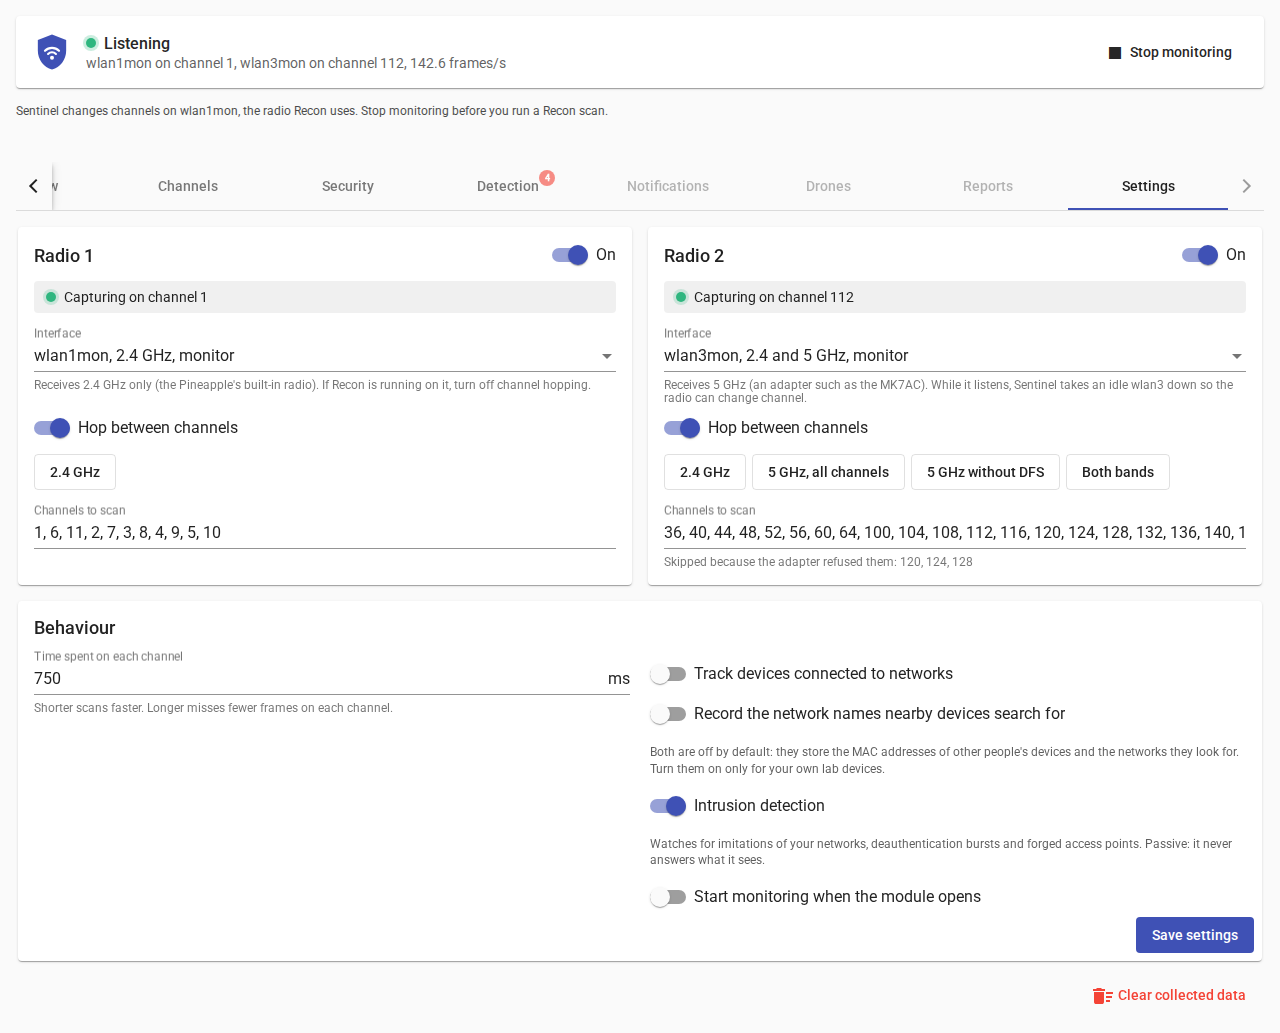
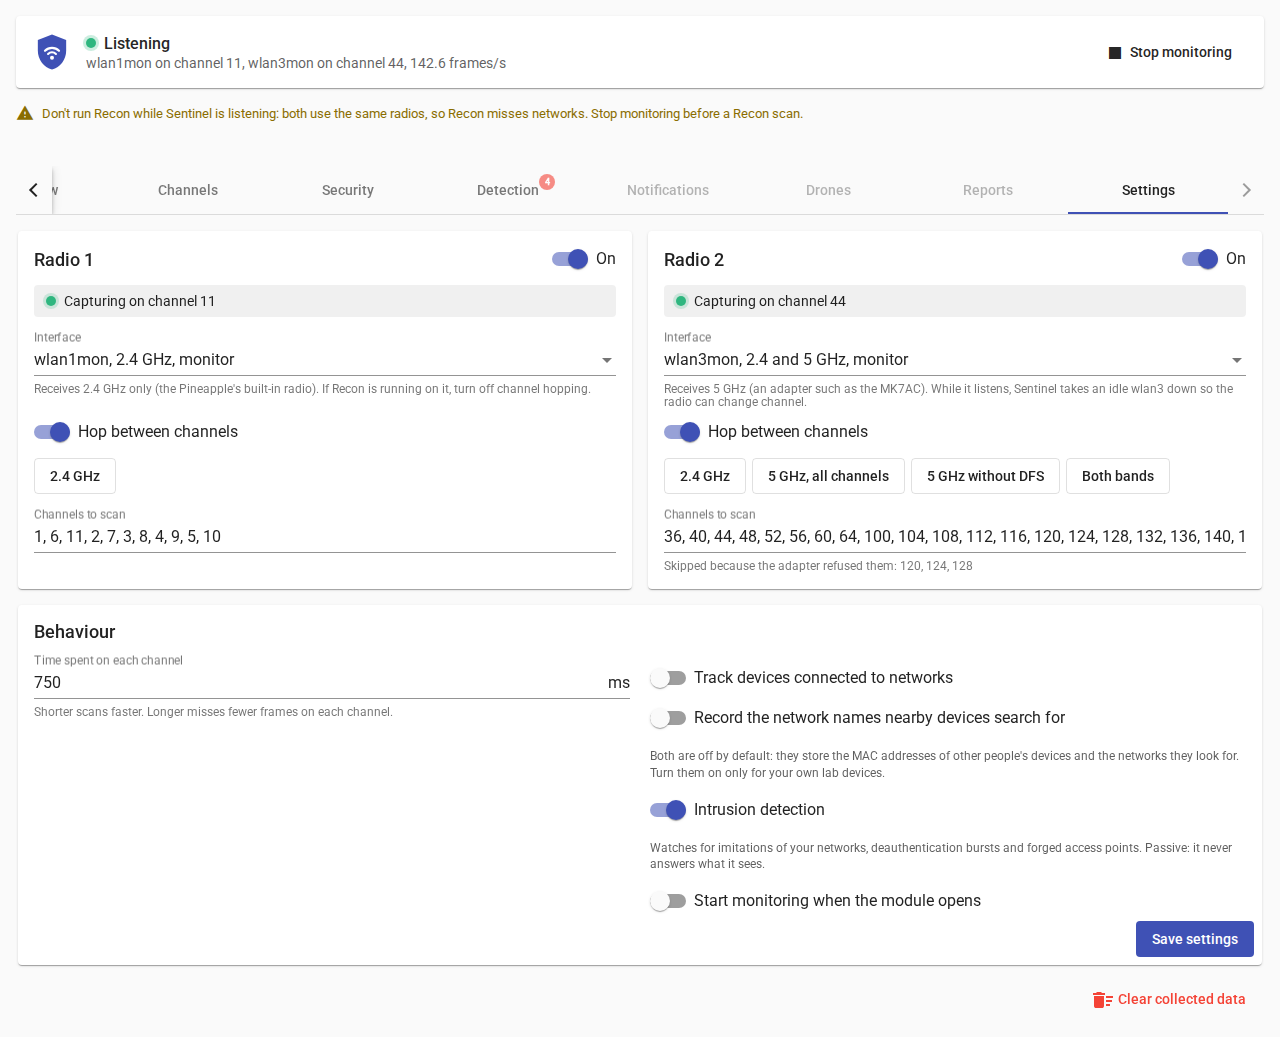
Sentinel 0.8.1
A Recon warning on the main page, and the 0.8 test report.

Claude-Session: https://claude.ai/code/session_01Dyty2cSvxpgAPnk7cKjyN4

diff --git a/projects/Sentinel/src/lib/components/Sentinel.component.ts b/projects/Sentinel/src/lib/components/Sentinel.component.ts
@@ -147,9 +147,12 @@ export class SentinelComponent implements OnInit, AfterViewInit, OnDestroy {
         return this.state === 'on' && this.radios.some((r) => !!r.error);
     }
 
-    /** Sentinel hops channels on the radio the Pineapple's Recon also uses (audit 3.2). */
+    /**
+     * While listening, Sentinel holds the radios Recon needs (wlan1mon, and the 5 GHz adapter it
+     * takes out of managed mode): a Recon scan then misses networks (audit 3.2, tested in 0.8.0).
+     */
     get sharesRecon(): boolean {
-        return this.state === 'on' && this.radios.some((r) => r.iface === 'wlan1mon' && r.hopping);
+        return this.state === 'on';
     }
 
     get stateLabel(): string {

diff --git a/projects/Sentinel/src/lib/components/Sentinel.component.html b/projects/Sentinel/src/lib/components/Sentinel.component.html
@@ -46,8 +46,10 @@
         </div>
     </mat-card>
 
-    <p class="clock-note" *ngIf="sharesRecon">
-        Sentinel changes channels on wlan1mon, the radio Recon uses. Stop monitoring before you run a Recon scan.
+    <p class="recon-note" *ngIf="sharesRecon">
+        <mat-icon>warning</mat-icon>
+        <span>Don't run Recon while Sentinel is listening: both use the same radios, so Recon misses networks.
+        Stop monitoring before a Recon scan.</span>
     </p>
     <p class="clock-note" *ngIf="clockDrift">
         The Pineapple's clock is {{ clockDrift }} this computer's (no Internet to set it).

diff --git a/projects/Sentinel/src/lib/components/Sentinel.component.css b/projects/Sentinel/src/lib/components/Sentinel.component.css
@@ -154,6 +154,22 @@
     padding: 16px 2px 4px;
 }
 
+.recon-note {
+    margin: 0 0 12px;
+    display: flex;
+    align-items: center;
+    gap: 8px;
+    font-size: 13px;
+    color: var(--sn-medium-ink);
+}
+
+.recon-note mat-icon {
+    flex: none;
+    font-size: 18px;
+    width: 18px;
+    height: 18px;
+}
+
 .clock-note {
     margin: 0 0 12px;
     font-size: 12px;

diff --git a/docs/test-report-0.8.md b/docs/test-report-0.8.md
@@ -1,0 +1,22 @@
+# Sentinel 0.8.0: real-device test report
+
+Device: WiFi Pineapple Mark VII + MK7AC, firmware 2.1.3. The Pineapple has no Internet access, PineAP is off,
+and listening is passive only. The Pineapple's clock now comes from the computer it is plugged into (NTP over USB).
+
+## Install and listening
+- Upgrade from 0.7.5 with `sh install-from-pc.sh --reboot`, settings and marked networks kept.
+- Both radios hop through nl80211: `wlan1mon` on the 11 channels of 2.4 GHz, `wlan3mon` on 25 channels of 5 GHz
+  (120 to 128 skipped, weather radar). No error, 0 frames rejected out of more than 400,000.
+- About 100 to 125 frames per second at home, well under the new budget (800 per second before only management
+  frames are decoded). Engine memory 11 MB, as before.
+
+## Recon while Sentinel is listening (test asked by the audit)
+- A two-minute Recon scan was run from the Pineapple's interface while Sentinel was listening.
+- **Sentinel:** kept running, no error, no frame rejected, both radios kept hopping, and it went on normally after
+  the scan. The frame rate stayed in the usual range.
+- **Recon:** did **not** find all the networks. Sentinel holds both radios: it hops channels on `wlan1mon`, and it
+  takes the MK7AC out of managed mode (`wlan3` down) so it can hop on `wlan3mon`. Recon is left with a radio that
+  keeps moving and without the 5 GHz adapter.
+- **Result:** nothing crashes and nothing stays stuck, but the two cannot share the radios. Stop monitoring before a
+  Recon scan (stopping brings `wlan3` back). Since 0.8.1 the main page says so while Sentinel is listening, and the
+  README too.

diff --git a/README.md b/README.md
@@ -101,8 +101,8 @@ After that, leave it running. Alerts show up in **Detection**, with a counter on
   every 30 seconds.
 - While it's running, Sentinel turns off `wlan3` (the MK7AC in normal mode) so the 5 GHz radio can change channel.
   Stopping, rebooting or uninstalling brings it back.
-- Don't run Recon on the same radio at the same time. If you need the Pineapple for something else, just stop
-  monitoring.
+- **Don't run Recon while Sentinel is listening.** Both use the same radios (the built-in one and the MK7AC), so Recon
+  misses networks. Stop monitoring before a Recon scan, then start it again. The main page reminds you.
 - In Canada, channels 120 to 128 are blocked for weather radar. The module skips them, that's normal.
 - The Pineapple has no battery for its clock, so its time drifts after a reboot. Sentinel shows times based on the
   Pineapple's own clock so "5 min ago" stays right.
@@ -125,7 +125,8 @@ sh /pineapple/modules/Sentinel/uninstall.sh --purge    # also deletes /root/.Sen
 ## More
 
 - Test reports on a real Mark VII: [0.4.3](docs/test-report-0.4.3.md), [0.4.4](docs/test-report-0.4.4.md),
-  [0.6](docs/test-report-0.6.md), [0.7](docs/test-report-0.7.md)
+  [0.6](docs/test-report-0.6.md), [0.7](docs/test-report-0.7.md),
+  [0.8](docs/test-report-0.8.md)
 - How it works, tests, building, demo: [DEVELOPMENT.md](docs/DEVELOPMENT.md)
 - Ideas for later: [ROADMAP.md](docs/ROADMAP.md)
 - [CHANGELOG.md](CHANGELOG.md) · [SECURITY.md](SECURITY.md) (reporting a vulnerability) ·

diff --git a/README.fr.md b/README.fr.md
@@ -82,8 +82,9 @@ Après ça, laisse-le tourner. Les alertes s'affichent dans **Detection**, avec 
   Sentinel essaie de la rouvrir toutes les 30 secondes.
 - Pendant qu'il tourne, Sentinel coupe `wlan3` (le MK7AC en mode normal) pour que la radio 5 GHz puisse changer de
   canal. L'arrêter, redémarrer ou désinstaller le remet.
-- Ne lance pas Recon sur la même radio en même temps. Si tu as besoin du Pineapple pour autre chose, arrête juste
-  l'écoute.
+- **Ne lance pas Recon pendant que Sentinel écoute.** Les deux utilisent les mêmes radios (celle du Pineapple et le
+  MK7AC), donc Recon rate des réseaux. Arrête l'écoute avant un scan Recon, puis relance-la. La page principale te le
+  rappelle.
 - Au Canada, les canaux 120 à 128 sont réservés aux radars météo. Le module les saute, c'est normal.
 - Le Pineapple n'a pas de pile pour son horloge, donc l'heure dérive après un redémarrage. Sentinel calcule les
   durées avec l'horloge du Pineapple pour que « il y a 5 min » reste juste.

diff --git a/docs/ROADMAP.md b/docs/ROADMAP.md
@@ -18,7 +18,8 @@ recommended: nearby network names and addresses should not leave the home.
 
 ## Before a submission to Hak5
 - The P1 findings of the pre-release audit are fixed in 0.8.0 (3.2, 3.4, 4.1, 6.1, see the changelog).
-- Two tests on the device are still to do: an install on a factory-reset Mark VII, and a session with Recon running.
+- One test on the device is still to do: an install on a factory-reset Mark VII. The session with Recon running was
+  done in 0.8.0 (see `docs/test-report-0.8.md`).
 
 ## More detection rules
 These ideas come from another open project, [blue-team-wifi-wids](https://github.com/SinLoops333/blue-team-wifi-wids)

diff --git a/CHANGELOG.md b/CHANGELOG.md
@@ -1,5 +1,11 @@
 # Changelog
 
+## 0.8.1
+- **Recon.** Tested on the device: while Sentinel listens, a Recon scan misses networks, because Sentinel holds both
+  radios (`wlan1mon`, and the MK7AC it takes out of managed mode). Nothing crashes, but they can't share. The main
+  page now shows a warning the whole time Sentinel is listening: stop monitoring before a Recon scan. The README says
+  the same. Test report: `docs/test-report-0.8.md`.
+
 ## 0.8.0
 The last findings of the pre-release audit (P1), before a submission to Hak5.
 - **A radio that stops working is reopened.** If an adapter is unplugged or its driver resets, Sentinel closes it,
